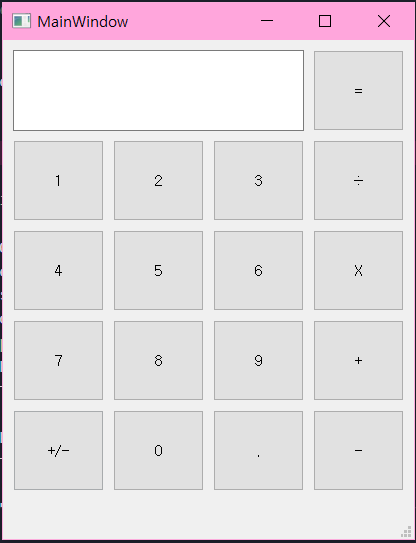
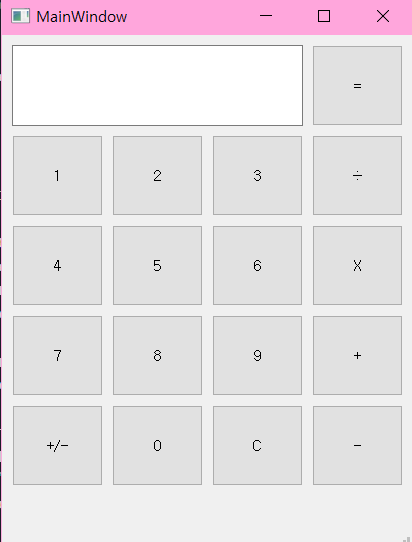
.

diff --git a/ui.py b/ui.py
@@ -50,9 +50,9 @@ class Ui_mainWindow(object):
         self.zero = QtWidgets.QPushButton(self.centralwidget)
         self.zero.setGeometry(QtCore.QRect(110, 370, 91, 81))
         self.zero.setObjectName("zero")
-        self.dot = QtWidgets.QPushButton(self.centralwidget)
-        self.dot.setGeometry(QtCore.QRect(210, 370, 91, 81))
-        self.dot.setObjectName("dot")
+        self.clear = QtWidgets.QPushButton(self.centralwidget)
+        self.clear.setGeometry(QtCore.QRect(210, 370, 91, 81))
+        self.clear.setObjectName("clear")
         self.result = QtWidgets.QPushButton(self.centralwidget)
         self.result.setGeometry(QtCore.QRect(310, 10, 91, 81))
         self.result.setObjectName("result")
@@ -68,9 +68,9 @@ class Ui_mainWindow(object):
         self.minus = QtWidgets.QPushButton(self.centralwidget)
         self.minus.setGeometry(QtCore.QRect(310, 370, 91, 81))
         self.minus.setObjectName("minus")
-        self.textBrowser = QtWidgets.QTextBrowser(self.centralwidget)
-        self.textBrowser.setGeometry(QtCore.QRect(10, 10, 291, 81))
-        self.textBrowser.setObjectName("value")
+        self.value = QtWidgets.QTextBrowser(self.centralwidget)
+        self.value.setGeometry(QtCore.QRect(10, 10, 291, 81))
+        self.value.setObjectName("value")
         mainWindow.setCentralWidget(self.centralwidget)
         self.menubar = QtWidgets.QMenuBar(mainWindow)
         self.menubar.setGeometry(QtCore.QRect(0, 0, 411, 26))
@@ -97,7 +97,7 @@ class Ui_mainWindow(object):
         self.eight.setText(_translate("mainWindow", "8"))
         self.plus_minus.setText(_translate("mainWindow", "+/-"))
         self.zero.setText(_translate("mainWindow", "0"))
-        self.dot.setText(_translate("mainWindow", "."))
+        self.clear.setText(_translate("mainWindow", "C"))
         self.result.setText(_translate("mainWindow", "="))
         self.division.setText(_translate("mainWindow", "÷"))
         self.times.setText(_translate("mainWindow", "X"))

diff --git a/main.py b/main.py
@@ -3,8 +3,6 @@ from PyQt5.QtWidgets import *
 from PyQt5 import uic
 import tkinter.messagebox as msgbox
 
-from pyrsistent import v
-
 form_class = uic.loadUiType("ui.ui")[0]
 
 global result
@@ -27,7 +25,15 @@ class WindowClass(QMainWindow, form_class):
         self.eight.clicked.connect(self.eight_value)
         self.nine.clicked.connect(self.nine_value)
         self.zero.clicked.connect(self.zero_value)
+        self.clear.clicked.connect(self.clear_button)
 
+    def clear_button(self):
+        fir_value = 0
+        sec_value = 0
+        result = 0
+        self.value.setText(str(fir_value))
+        
+        
     def error_message(self, title, message):
         msgbox.showerror(title, message)
 
